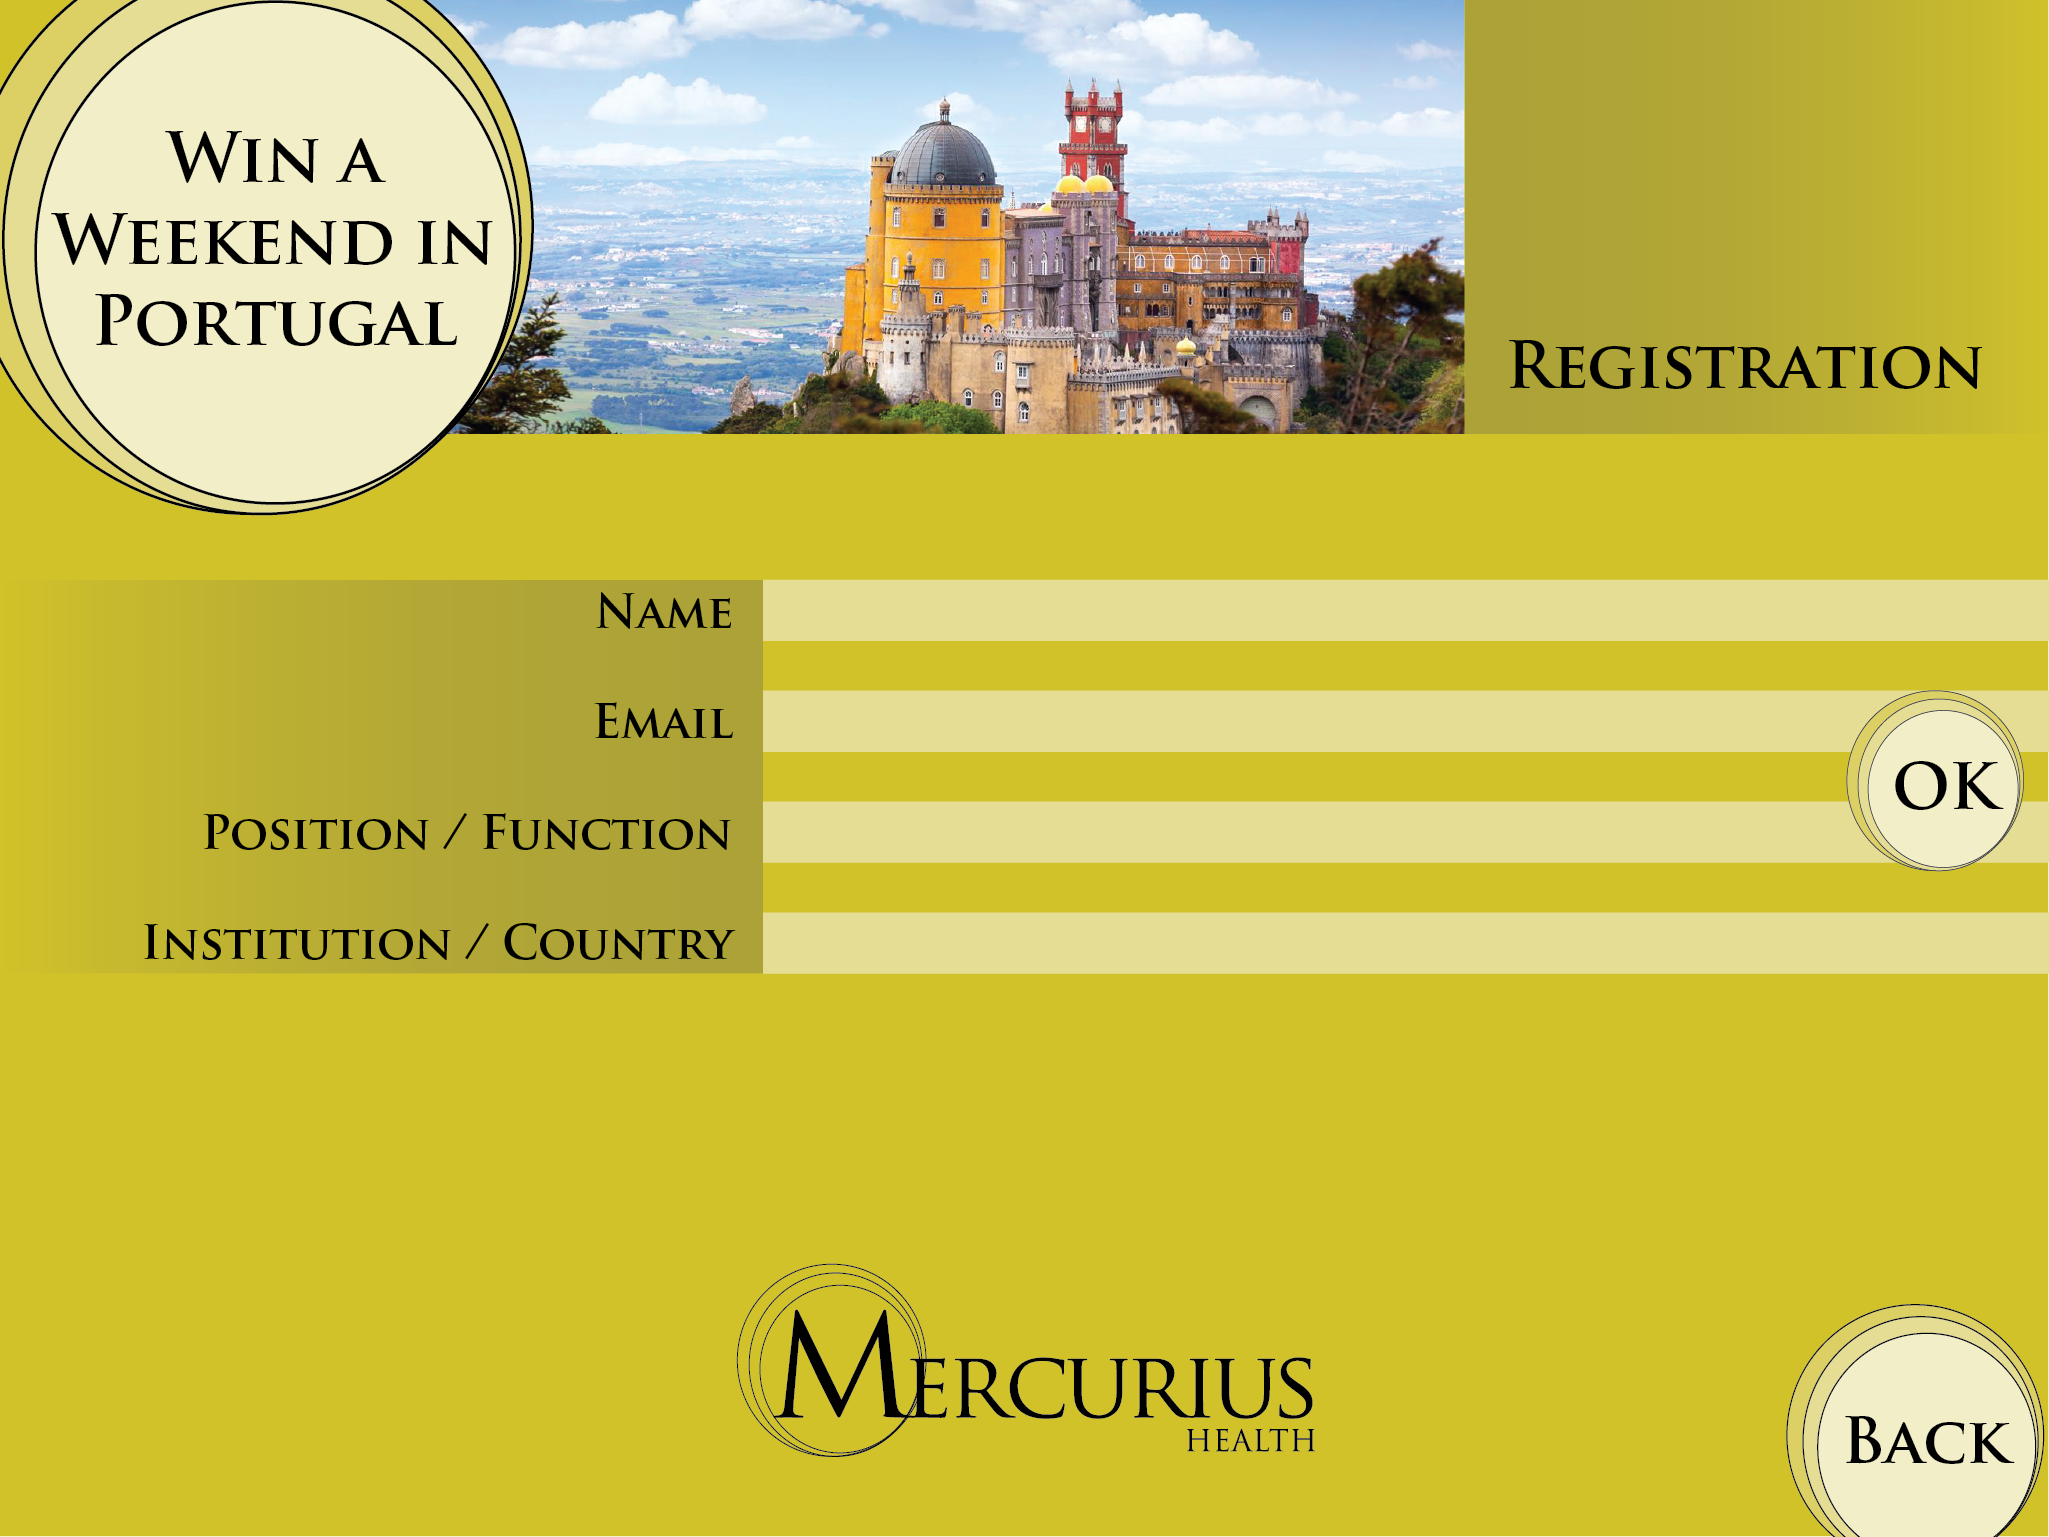
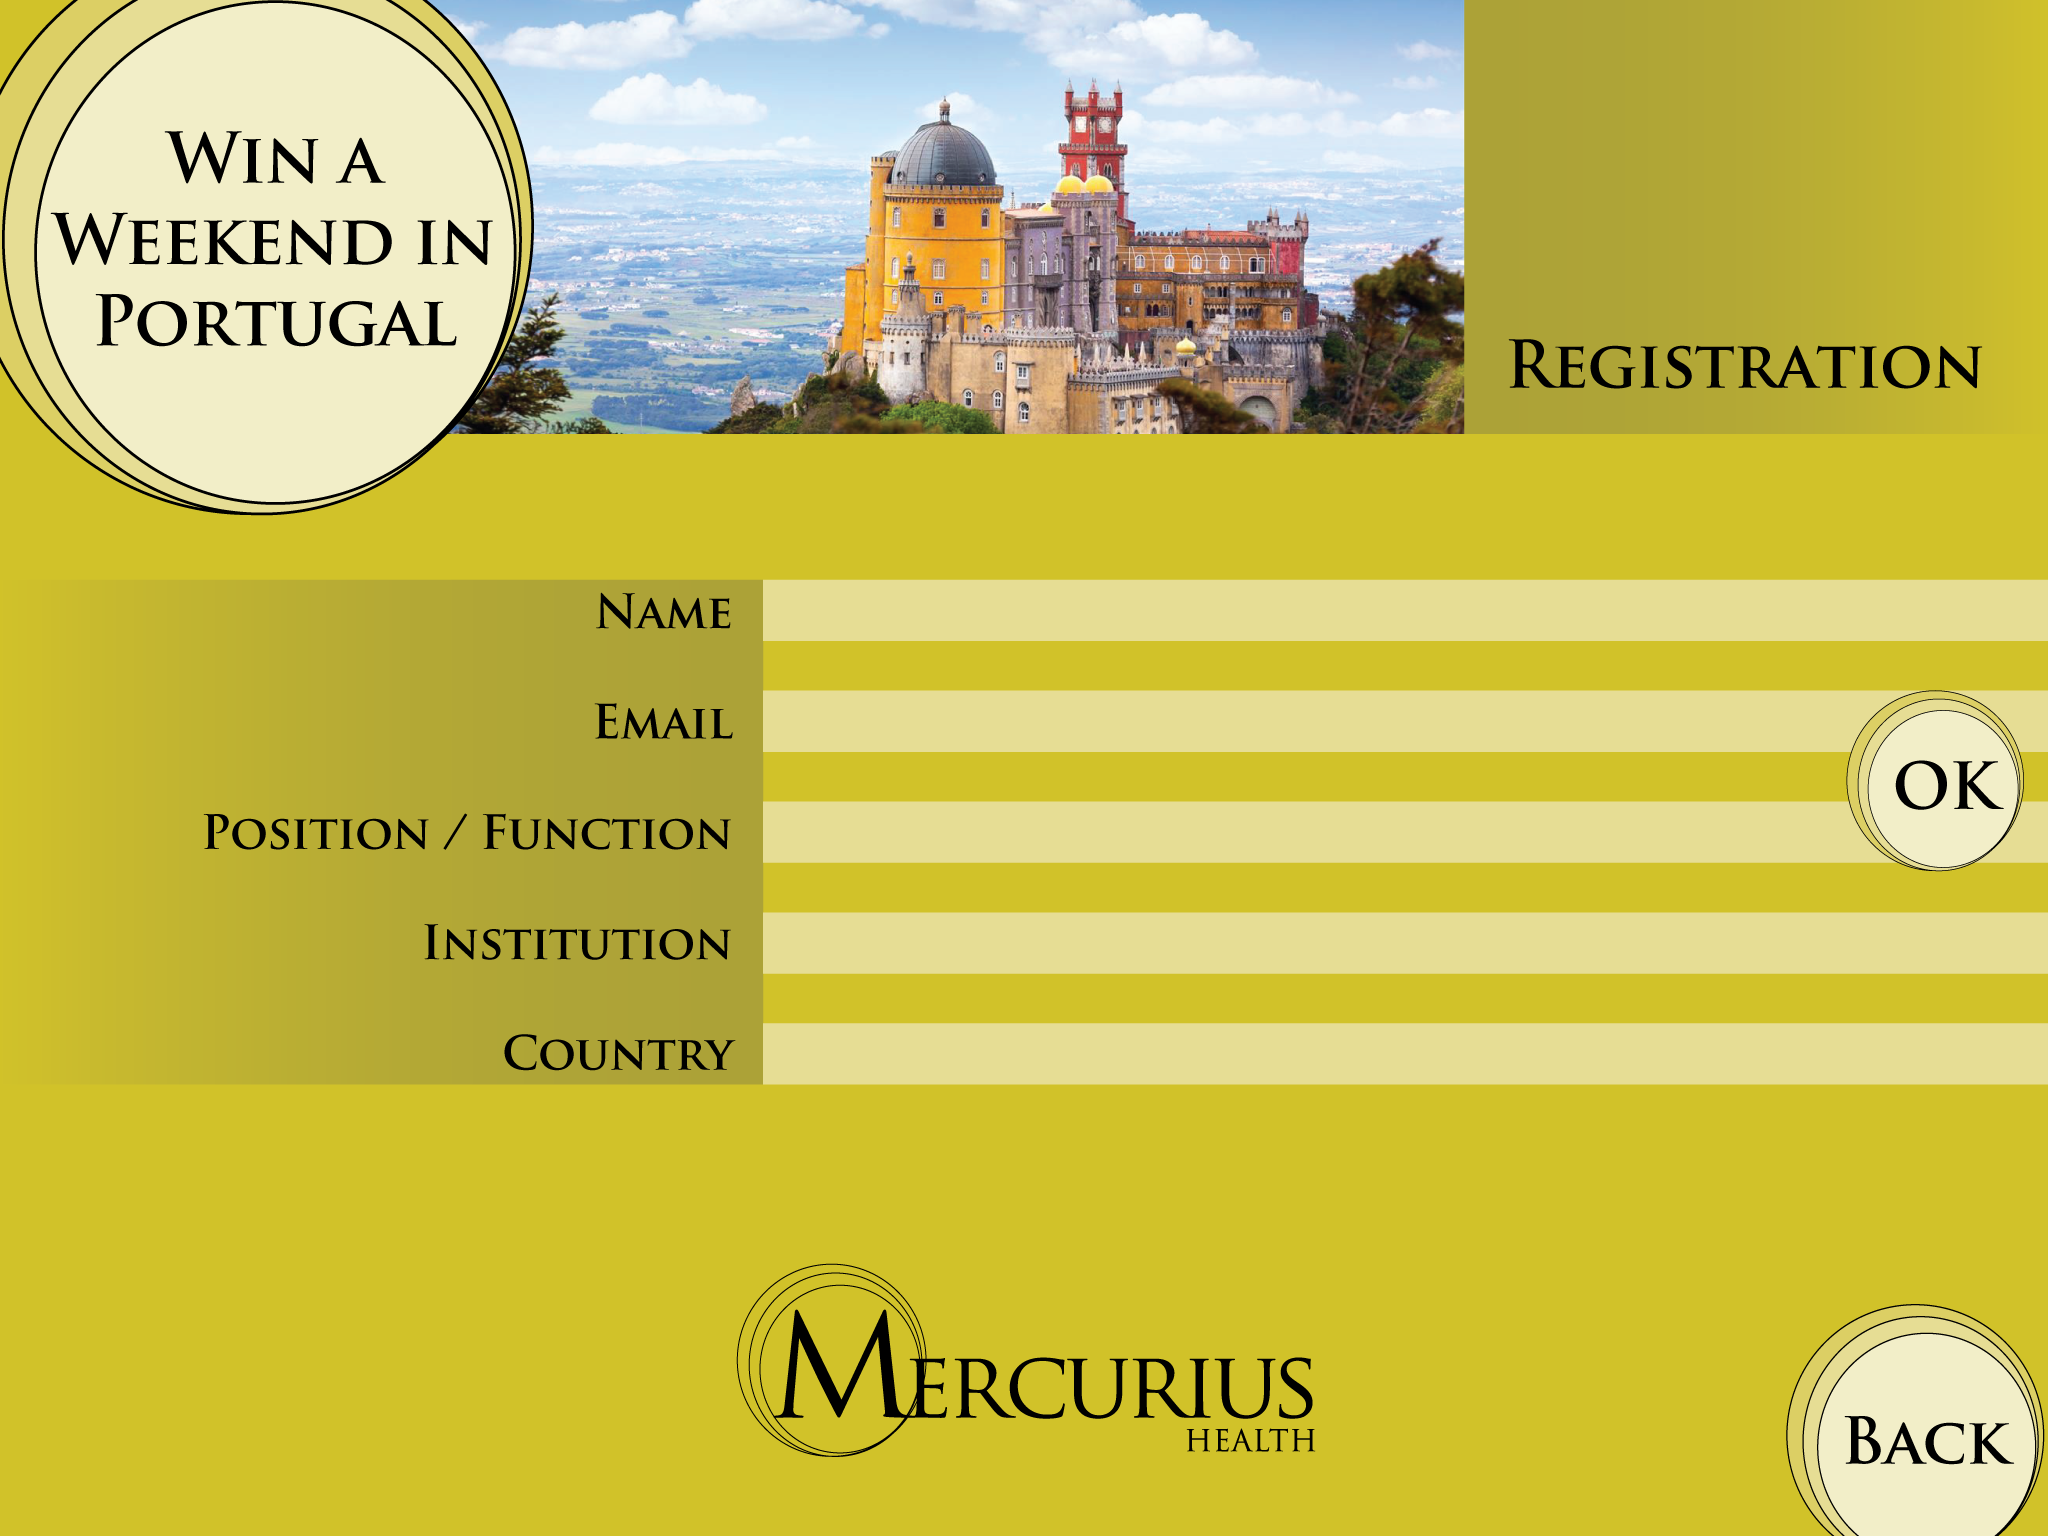
replace registration image added field to registration replace youtube links

diff --git a/js/script.js b/js/script.js
@@ -10,6 +10,7 @@ var inFormTopics = $('#form_topics');
 var inName = $('#in_name');
 var inEmail = $('#in_email');
 var inPosition = $('#in_position');
+var inInstitution = $('#in_institution');
 var inCountry = $('#in_country');
 var inPassword = $('#in_password');
 var cbEplanning = $('#cb_eplanning');
@@ -71,7 +72,11 @@ function config() {
       if(contacts.length > 0) {
         var max = contacts.length - 1;
         var winner = contacts[getRandomInt(0, max)];
-        uiWinner.html('WINNER:<br/>' + winner.name + '<br/>' + winner.email + '<br/>' + winner.position + '<br/>' + winner.country);
+        uiWinner.html('WINNER:<br/>' + winner.name + '<br/>'
+                                     + winner.email + '<br/>'
+                                     + winner.position + '<br/>'
+                                     + winner.institution + '<br/>'
+                                     + winner.country);
       }
     }
   });
@@ -98,11 +103,11 @@ function show(id) {
 }
 
 function startVideoEplanning() {
-  vdEplanning[0].src = "https://www.youtube.com/embed/51ftD3Jbnsk?enablejsapi=1&autoplay=1&modestbranding=1";
+  vdEplanning[0].src = "https://www.youtube.com/embed/0NBN6inxHZc?enablejsapi=1&autoplay=1&modestbranding=1";
 }
 
 function startVideoWeekend() {
-  vdWeekend[0].src = "https://www.youtube.com/embed/-qdjAbRwJ3Q?enablejsapi=1&autoplay=1&modestbranding=1";
+  vdWeekend[0].src = "https://www.youtube.com/embed/-uYUolvK1Fo?enablejsapi=1&autoplay=1&modestbranding=1";
 }
 
 function stopVideos() {
@@ -136,6 +141,8 @@ function save() {
     email = email.substring(email.indexOf('=') + 1);
     var position = inPosition.val();
     position = position.substring(position.indexOf('=') + 1);
+    var institution = inInstitution.val();
+    institution = institution.substring(institution.indexOf('=') + 1);
     var country = inCountry.val();
     country = country.substring(country.indexOf('=') + 1);
 
@@ -144,12 +151,14 @@ function save() {
     contact.name = name;
     contact.email = email;
     contact.position = position;
+    contact.institution = institution;
     contact.country = country;
 
     //clear input data
     inName.val("");
     inEmail.val("");
     inPosition.val("");
+    inInstitution.val("");
     inCountry.val("");
 
     show(pagenameTopics);
@@ -191,6 +200,9 @@ inForm.validate({
       required: true
     },
     in_position: {
+      required: true
+    },
+    in_institution: {
       required: true
     },
     in_country: {

diff --git a/index.html b/index.html
@@ -54,6 +54,9 @@
 			<div id="input_position_row" class="input_row">
 				<input type="text" class="form_input" id="in_position" name="in_position"/>
 			</div>
+			<div id="input_institution_row" class="input_row">
+				<input type="text" class="form_input" id="in_institution" name="in_institution"/>
+			</div>
 			<div id="input_country_row" class="input_row">
 				<input type="text" class="form_input" id="in_country" name="in_country"/>
 			</div>

diff --git a/css/style.css b/css/style.css
@@ -171,8 +171,12 @@ html, body, section {
 	top: 52.4%;
 }
 
-#input_country_row {
+#input_institution_row {
 	top: 59.6%;
+}
+
+#input_country_row {
+	top: 66.9%;
 }
 
 .form_input {
